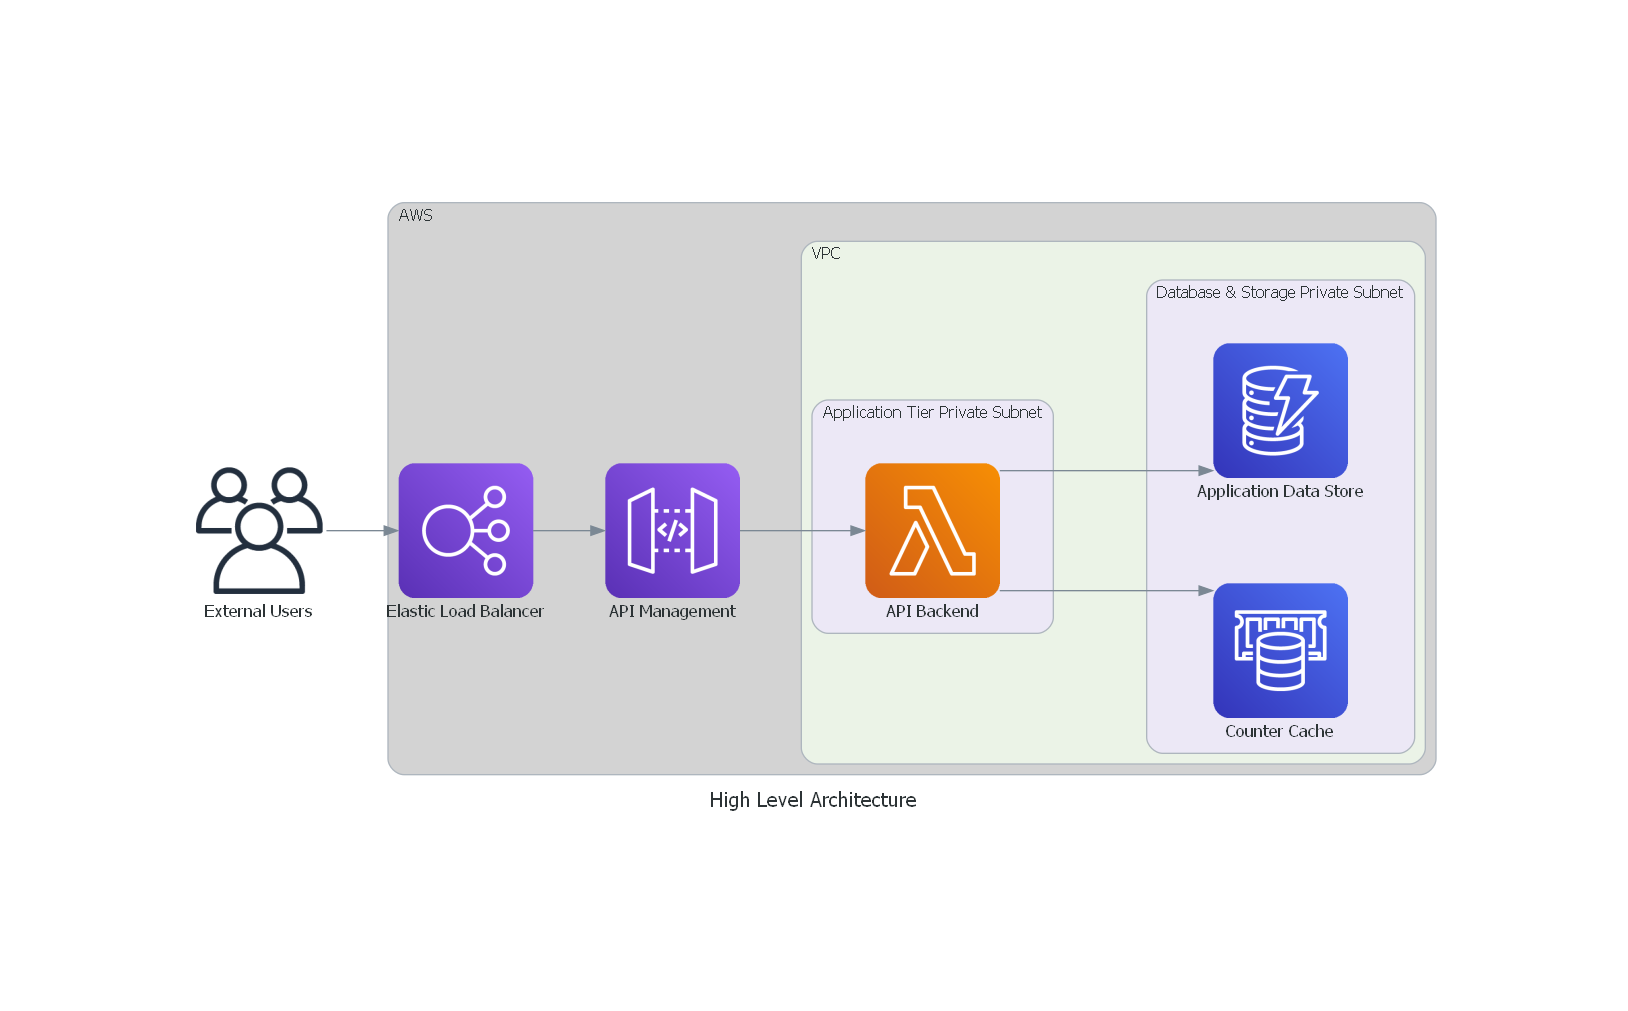
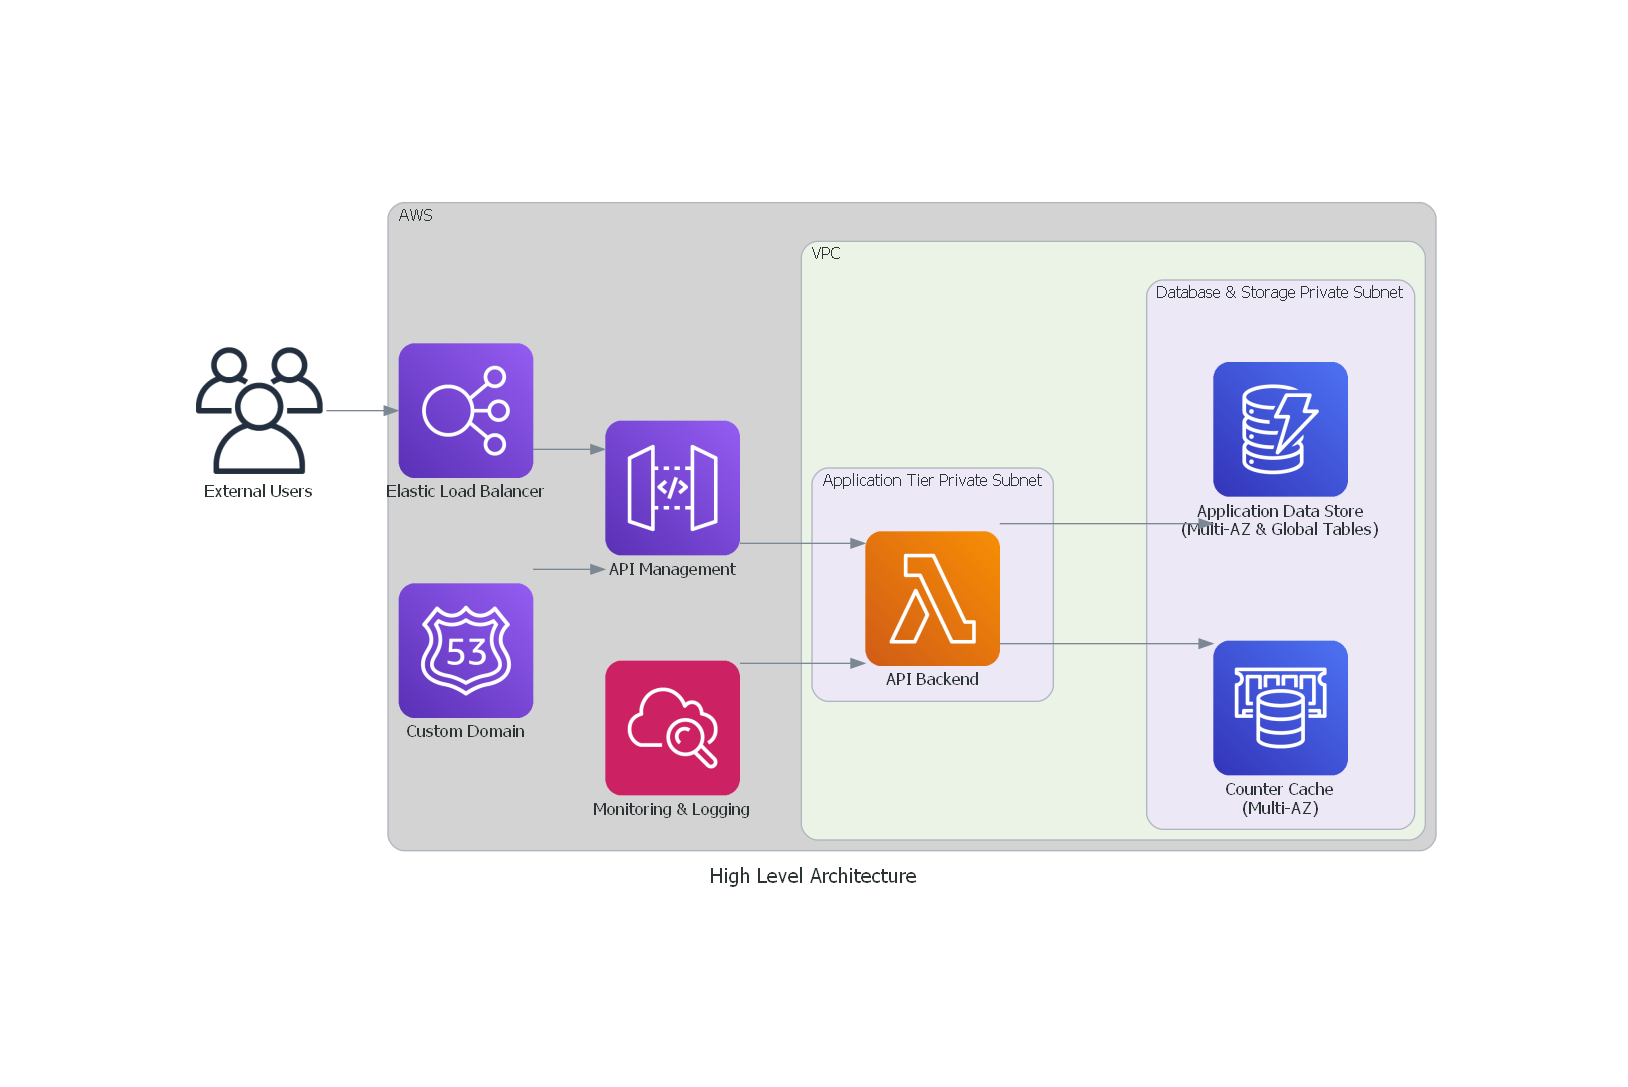
Updated high_level_architecture diagram, added exception handling for short url not found

Changed region(s): [[0.1229, 0.184, 0.8907, 0.8279]]

diff --git a/diagrams/high_level_architecture.py b/diagrams/high_level_architecture.py
@@ -1,7 +1,8 @@
 from diagrams import Diagram, Cluster
 from diagrams.aws.compute import Lambda
 from diagrams.aws.database import Dynamodb, ElastiCache
-from diagrams.aws.network import ELB, APIGateway
+from diagrams.aws.network import ELB, APIGateway, Route53
+from diagrams.aws.management import Cloudwatch
 from diagrams.aws.general import Users
 
 output_dir = "diagrams/generated_diagrams/"
@@ -12,25 +13,32 @@ with Diagram("High Level Architecture", show=False, filename=output_dir + "high_
     with Cluster("AWS", graph_attr={"label": "AWS", "bgcolor": "lightgrey"}):
         lb = ELB("Elastic Load Balancer")
         api_gateway = APIGateway("API Management")
+        route53 = Route53("Custom Domain")
 
         with Cluster("VPC"):
             with Cluster("Application Tier Private Subnet"):
                 web = Lambda("API Backend")
-                
+
             with Cluster("Database & Storage Private Subnet"):
-                dynamodb = Dynamodb("Application Data Store")
-                counter_cache = ElastiCache("Counter Cache")
+                dynamodb = Dynamodb("Application Data Store\n(Multi-AZ & Global Tables)")
+                counter_cache = ElastiCache("Counter Cache\n(Multi-AZ)")
+
+        cloudwatch = Cloudwatch("Monitoring & Logging")
 
     users >> lb
     lb >> api_gateway >> web
     web >> dynamodb
     web >> counter_cache
+    route53 >> api_gateway
+    cloudwatch >> web
 
-'''
+"""
 1. External Users: Represents the users who interact with the API endpoints through their web browsers, mobile apps, or other HTTP clients.
 2. Elastic Load Balancer (ELB): Distributes incoming HTTP traffic to the API Gateway for request processing.
 3. API Gateway: Routes requests to the AWS Lambda function, which is responsible for handling the logic of generating short URLs and redirecting users to the original URLs.
-4. Lambda Function (API Backend): Stores and retrieves data from the Amazon DynamoDB database, which is used to persistently store the mappings between short URLs and their corresponding original URLs.
-5. DynamoDB (Application Data Store): Stores the original URL, short URL, and other relevant data for each URL mapping.
-6. ElastiCache (Counter Cache): Caches the counter values for generating unique short URLs to minimize latency and improve performance.
-'''
+4. Route 53 (Custom Domain): Manages custom domain names for API backend, providing more control over API's domain and improving its availability through AWS Route 53's health checks and routing policies.
+5. Lambda Function (API Backend): Stores and retrieves data from the Amazon DynamoDB database, which is used to persistently store the mappings between short URLs and their corresponding original URLs.
+6. DynamoDB (Application Data Store): Stores the original URL, short URL, and other relevant data for each URL mapping. Enhanced with Multi-AZ deployment and Global Tables for increased durability and high availability.
+7. ElastiCache (Counter Cache): Caches the counter values for generating unique short URLs to minimize latency and improve performance. Configured with Multi-AZ deployment for fault tolerance and high availability.
+8. CloudWatch (Monitoring & Logging): Monitors application performance, tracks issues, and maintains high availability by collecting logs and providing alerts.
+"""

diff --git a/app/utils.py b/app/utils.py
@@ -30,6 +30,11 @@ def get_short_url_for_original_url(db: Session, original_url: str) -> str:
     return short_url
 
 def generate_short_url(url: str, counter_value: int, length: int = 6) -> str:
+    """
+    The default length value is 6. Since the Base64 encoding uses 64 unique characters, 
+    there are 64^6 possible combinations of short URLs, which results in 68,719,476,736 unique short URLs.
+    """
+
     # Hash the original URL with SHA256
     sha256 = hashlib.sha256(url.encode('utf-8')).digest()
 

diff --git a/app/exceptions.py b/app/exceptions.py
@@ -1,2 +1,10 @@
-class ShortUrlNotFound(Exception):
-    pass
+from fastapi import HTTPException
+
+class ShortUrlNotFound(HTTPException):
+    """Raised when a short URL is not found in the database."""
+
+    def __init__(self):
+        super().__init__(
+            status_code=404,
+            detail="Short URL not found",
+        )
